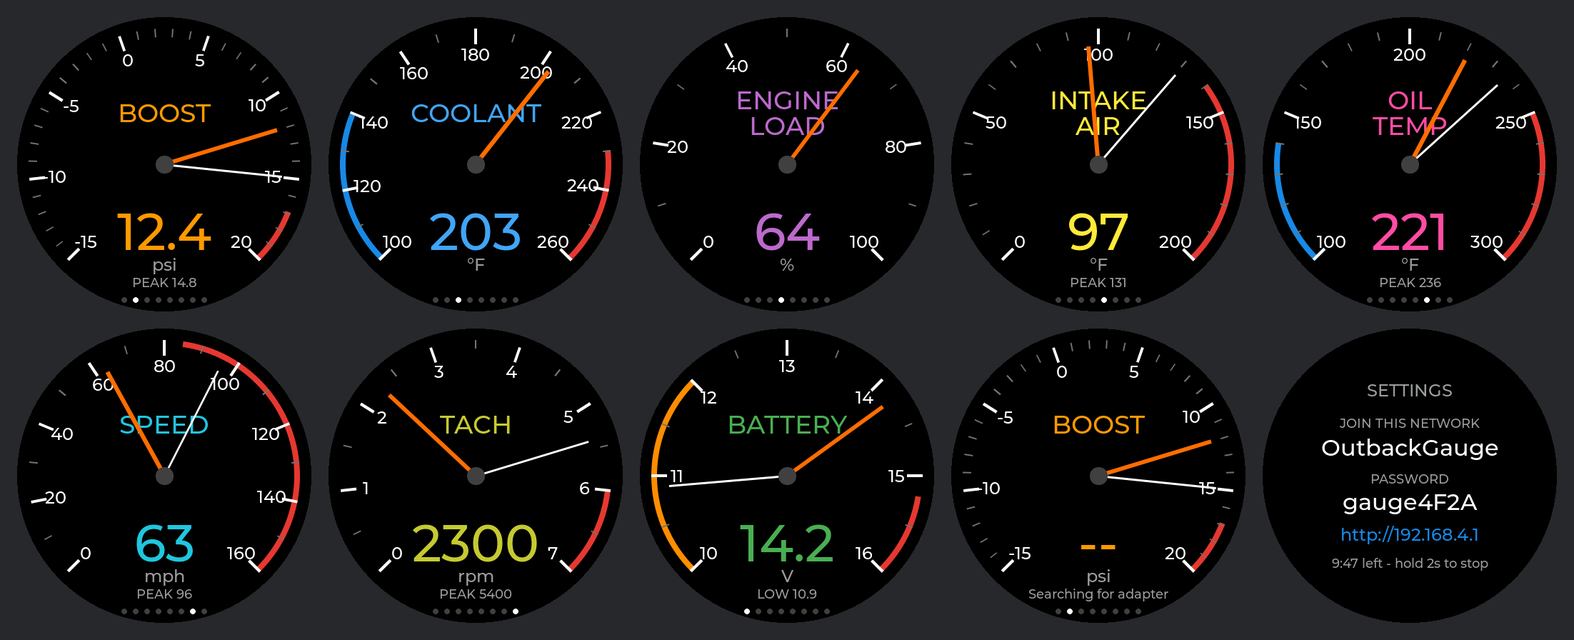
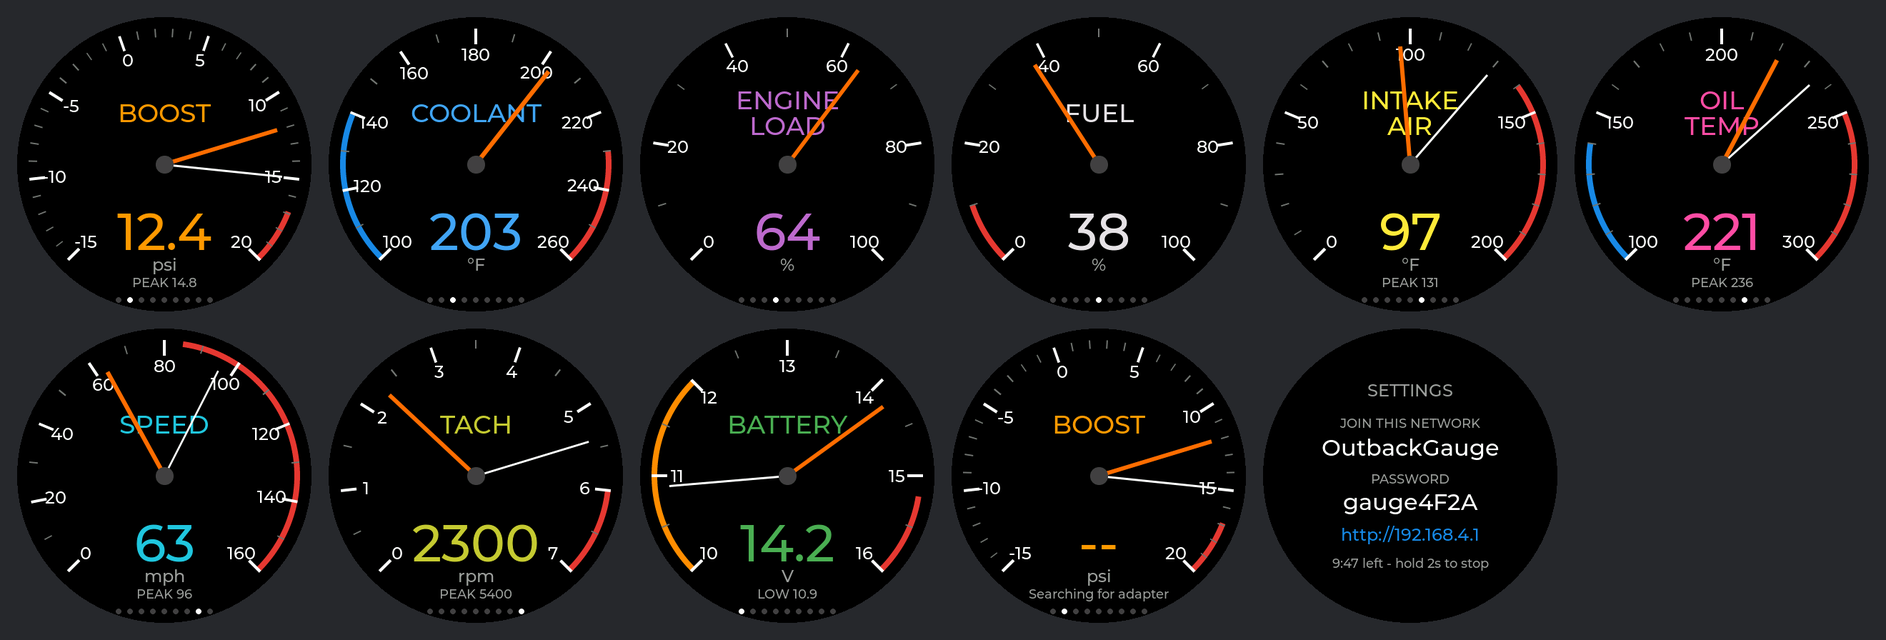
Add a fuel gauge page (PID 0x2F) with a low-fuel warning
Tank level is smoothed against sloshing and warns below a settable level
(10% by default). Page mask widens to 16 bits and the saved settings move
to layout 8; blobs from layouts 4 to 7 are carried over, with fuel shown
and last in their order.

diff --git a/docs/settings-page.html b/docs/settings-page.html
@@ -1,1 +1,1 @@
-<!doctype html><html><head><meta charset=utf-8><meta name=viewport content='width=device-width,initial-scale=1'><title>Outback Gauge</title><style>*{box-sizing:border-box}body{margin:0;padding:18px;background:#111;color:#eee;font:16px/1.4 -apple-system,system-ui,Roboto,sans-serif}main{max-width:30rem;margin:0 auto}h1{font-size:1.25rem;margin:0}p.sub{margin:.2rem 0 1.4rem;color:#888;font-size:.85rem}h2{font-size:.72rem;text-transform:uppercase;letter-spacing:.09em;color:#888;margin:1.6rem 0 .3rem;border-bottom:1px solid #2a2a2a;padding-bottom:.4rem}label{display:flex;align-items:center;gap:.75rem;padding:.5rem 0}label span{flex:1}label em{color:#777;font-style:normal;font-size:.8rem;min-width:2.4rem}input[type=number]{width:5.5rem;padding:.5rem;background:#1c1c1c;border:1px solid #333;border-radius:6px;color:#fff;font-size:1rem;text-align:right}select{padding:.5rem;background:#1c1c1c;border:1px solid #333;border-radius:6px;color:#fff;font-size:1rem}input[type=range]{flex:1;accent-color:#FF6D00}table{width:100%;border-collapse:collapse;margin-top:.3rem}th{font-size:.7rem;font-weight:400;text-transform:uppercase;letter-spacing:.06em;color:#888;text-align:center;padding:.3rem .25rem}th:first-child,td:first-child{text-align:left}td{padding:.45rem .25rem;border-top:1px solid #222;text-align:center;vertical-align:middle}td input[type=number]{width:4.6rem;padding:.4rem}td input[type=radio]{width:1.35rem;height:1.35rem;accent-color:#FF6D00}.lim{display:flex;align-items:center;justify-content:center;gap:.3rem;margin:.15rem 0}.lim em{min-width:1.6rem;text-align:left;white-space:nowrap}td input[type=number]{width:4.2rem}.none{color:#555}td.mv{touch-action:none;cursor:grab;user-select:none;-webkit-user-select:none}.ar{display:inline-flex;gap:.2rem;margin-left:.4rem;vertical-align:middle}button.mb{width:auto;margin:0;padding:.15rem .4rem;font-size:.7rem;background:#1c1c1c;color:#aaa;border:1px solid #333;font-weight:400}tr.drag td{background:#2a2a2a}td input:disabled{opacity:.25}button.ghost.arm{background:#7a2c2c;color:#fff;border-color:#a33}#toast{position:fixed;left:50%;bottom:1.2rem;transform:translateX(-50%);padding:.7rem 1.3rem;border-radius:8px;background:#14301b;border:1px solid #2c5c38;color:#a9e0bb;display:none;z-index:9;box-shadow:0 4px 18px #000a}#toast.bad{background:#3a1616;border-color:#7a2c2c;color:#f2b2b2}input[type=checkbox]{width:1.35rem;height:1.35rem;accent-color:#FF6D00}button{width:100%;padding:.85rem;margin-top:1.2rem;border:0;border-radius:8px;background:#FF6D00;color:#111;font-size:1rem;font-weight:600}button.ghost{background:#1c1c1c;color:#ccc;border:1px solid #333;font-weight:400;margin-top:.5rem}.note{background:#14301b;border:1px solid #2c5c38;color:#a9e0bb;padding:.6rem .8rem;border-radius:6px;margin-bottom:1.2rem;font-size:.9rem}.warn{color:#FB8C00;font-size:.78rem;margin:.5rem 0 0}</style></head><body><main><h1>Outback Gauge</h1><p class=sub>Settings are saved on the gauge and survive a reboot.</p><div class=note>Saved.</div><form method=POST action=/save data-toast="Saved"><h2>Gauges</h2><table><tr><th>Gauge (drag to reorder)<th>Warns at<th>Show<th>Start on</tr><tr data-g><td class=mv><input type=hidden name=o value=5><span class=nm>Battery</span><span class=ar><button type=button class=mb data-d=-1>&#9650;</button><button type=button class=mb data-d=1>&#9660;</button></span><td><span class=lim><input type=number name=vlo min=10 max=14 step=0.1 value=12.0><em>V lo</em></span><span class=lim><input type=number name=vhi min=13 max=16 step=0.1 value=15.2><em>V hi</em></span><td><input type=checkbox name=pg5 checked><td><input type=radio name=start value=5></tr><tr data-g><td class=mv><input type=hidden name=o value=0><span class=nm>Boost</span><span class=ar><button type=button class=mb data-d=-1>&#9650;</button><button type=button class=mb data-d=1>&#9660;</button></span><td><span class=lim><input type=number name=boost min=0 max=20 step=0.5 value=17.0><em>psi</em></span><td><input type=checkbox name=pg0 checked><td><input type=radio name=start value=0></tr><tr data-g><td class=mv><input type=hidden name=o value=2><span class=nm>Coolant</span><span class=ar><button type=button class=mb data-d=-1>&#9650;</button><button type=button class=mb data-d=1>&#9660;</button></span><td><span class=lim><input type=number name=cool min=150 max=260 step=1 value=230><em>&deg;F</em></span><td><input type=checkbox name=pg2 checked><td><input type=radio name=start value=2></tr><tr data-g><td class=mv><input type=hidden name=o value=1><span class=nm>Engine load</span><span class=ar><button type=button class=mb data-d=-1>&#9650;</button><button type=button class=mb data-d=1>&#9660;</button></span><td><span class=none>none</span><td><input type=checkbox name=pg1 checked><td><input type=radio name=start value=1></tr><tr data-g><td class=mv><input type=hidden name=o value=4><span class=nm>Intake air</span><span class=ar><button type=button class=mb data-d=-1>&#9650;</button><button type=button class=mb data-d=1>&#9660;</button></span><td><span class=lim><input type=number name=intake min=60 max=200 step=1 value=140><em>&deg;F</em></span><td><input type=checkbox name=pg4 checked><td><input type=radio name=start value=4></tr><tr data-g><td class=mv><input type=hidden name=o value=3><span class=nm>Oil temperature</span><span class=ar><button type=button class=mb data-d=-1>&#9650;</button><button type=button class=mb data-d=1>&#9660;</button></span><td><span class=lim><input type=number name=oil min=180 max=300 step=1 value=250><em>&deg;F</em></span><td><input type=checkbox name=pg3 checked><td><input type=radio name=start value=3></tr><tr data-g><td class=mv><input type=hidden name=o value=6><span class=nm>Speed</span><span class=ar><button type=button class=mb data-d=-1>&#9650;</button><button type=button class=mb data-d=1>&#9660;</button></span><td><span class=lim><input type=number name=speed min=20 max=160 step=1 value=85><em>mph</em></span><td><input type=checkbox name=pg6 checked><td><input type=radio name=start value=6></tr><tr data-g><td class=mv><input type=hidden name=o value=7><span class=nm>Tachometer</span><span class=ar><button type=button class=mb data-d=-1>&#9650;</button><button type=button class=mb data-d=1>&#9660;</button></span><td><span class=lim><input type=number name=rpm min=3000 max=7000 step=100 value=6000><em>rpm</em></span><td><input type=checkbox name=pg7 checked><td><input type=radio name=start value=7></tr><tr><td colspan=3>The last one I tapped to<td><input type=radio name=start value=255 checked></tr></table><p class=warn>Unticked gauges are never shown, not even for a warning. The start gauge falls back to the first one shown if you hide it.</p><h2>Rotation</h2><label class=chk><input type=checkbox name=auto checked><span>Cycle through the gauges</span></label><label><span>Seconds per gauge</span><input type=number name=secs min=1 max=60 step=0.5 value=3.0><em>s</em></label><p class=warn>Tap the screen to move on early. Hold for 2 seconds to open this page.</p><h2>Display</h2><label><span>Backlight</span><input type=range name=bl min=5 max=100 step=5 value=80 oninput="this.nextElementSibling.textContent=this.value+'%'"><em>80%</em></label><button>Save</button></form><form method=POST action=/defaults data-toast="Defaults restored" data-ask="Tap again to restore defaults" data-confirm="Put every setting back to its default?"><button class=ghost>Restore defaults</button></form><form method=POST action=/reboot data-ask="Tap again to reboot" data-confirm="Reboot the gauge? The Wi-Fi drops, so hold the screen for 2 seconds to bring it back."><button class=ghost>Reboot the gauge</button></form><form method=POST action=/stop data-ask="Tap again to turn Wi-Fi off" data-confirm="Turn Wi-Fi off? Hold the screen to bring it back."><button class=ghost>Turn Wi-Fi off</button></form></main><div id=toast></div><script>function sync(){var rows=document.querySelectorAll('tr[data-g]'),on=0,pick=null;rows.forEach(function(r){var c=r.querySelector('input[type=checkbox]'),d=r.querySelector('input[type=radio]');d.disabled=!c.checked;if(c.checked){on++;if(!pick)pick=d}if(d.disabled&&d.checked){d.checked=false;if(pick)pick.checked=true}});var sel=document.querySelector('input[name=start]:checked');if(!sel){(pick||document.querySelector('input[name=start]:not(:disabled)')).checked=true}}function toast(t,bad){var e=document.getElementById('toast');e.textContent=t;e.className=bad?'bad':'';e.style.display='block';clearTimeout(toast.t);toast.t=setTimeout(function(){e.style.display='none'},3000)}document.addEventListener('change',function(e){if(e.target.type=='checkbox'&&e.target.name&&e.target.name.indexOf('pg')==0){if(!document.querySelector('input[name^=pg]:checked'))e.target.checked=true;sync()}});function disarm(f){var b=f.querySelector('button');if(f.armed){f.armed=0;b.textContent=b.getAttribute('data-t');b.className='ghost';if(f.m)f.m.remove()}}document.addEventListener('submit',function(e){var f=e.target,c=f.getAttribute('data-confirm');if(c){var b=f.querySelector('button');if(!f.armed){e.preventDefault();f.armed=1;b.setAttribute('data-t',b.textContent);b.textContent=f.getAttribute('data-ask');b.className='ghost arm';var m=document.createElement('p');m.className='warn';m.textContent=c;f.appendChild(m);f.m=m;clearTimeout(f.t);f.t=setTimeout(function(){disarm(f)},5000);return}clearTimeout(f.t);if(f.m)f.m.remove()}var t=f.getAttribute('data-toast');if(!t)return;e.preventDefault();fetch(f.action,{method:'POST',body:new URLSearchParams(new FormData(f))}).then(function(r){return r.text()}).then(function(h){var y=scrollY;document.body.innerHTML=new DOMParser().parseFromString(h,'text/html').body.innerHTML;var n=document.querySelector('.note');if(n)n.remove();sync();scrollTo(0,y);toast(t)}).catch(function(){toast('Could not reach the gauge',1)})});function rows(){return Array.prototype.slice.call(document.querySelectorAll('tr[data-g]'))}document.addEventListener('click',function(e){var b=e.target.closest('button.mb');if(!b)return;var r=b.closest('tr'),all=rows(),i=all.indexOf(r),d=+b.getAttribute('data-d'),o=all[i+d];if(!o)return;if(d<0)o.parentNode.insertBefore(r,o);else o.parentNode.insertBefore(o,r)});var dragRow=null;document.addEventListener('pointerdown',function(e){var h=e.target.closest('td.mv');if(!h||e.target.closest('button'))return;dragRow=h.parentNode;dragRow.className='drag';h.setPointerCapture(e.pointerId)});document.addEventListener('pointermove',function(e){if(!dragRow)return;var all=rows(),i=all.indexOf(dragRow),p=all[i-1],n=all[i+1];if(p){var a=p.getBoundingClientRect();if(e.clientY<a.top+a.height/2)p.parentNode.insertBefore(dragRow,p)}if(n){var c=n.getBoundingClientRect();if(e.clientY>c.top+c.height/2)n.parentNode.insertBefore(n,dragRow)}});function drop(){if(dragRow){dragRow.className='';dragRow=null}}document.addEventListener('pointerup',drop);document.addEventListener('pointercancel',drop);sync();</script></body></html>
+<!doctype html><html><head><meta charset=utf-8><meta name=viewport content='width=device-width,initial-scale=1'><title>Outback Gauge</title><style>*{box-sizing:border-box}body{margin:0;padding:18px;background:#111;color:#eee;font:16px/1.4 -apple-system,system-ui,Roboto,sans-serif}main{max-width:30rem;margin:0 auto}h1{font-size:1.25rem;margin:0}p.sub{margin:.2rem 0 1.4rem;color:#888;font-size:.85rem}h2{font-size:.72rem;text-transform:uppercase;letter-spacing:.09em;color:#888;margin:1.6rem 0 .3rem;border-bottom:1px solid #2a2a2a;padding-bottom:.4rem}label{display:flex;align-items:center;gap:.75rem;padding:.5rem 0}label span{flex:1}label em{color:#777;font-style:normal;font-size:.8rem;min-width:2.4rem}input[type=number]{width:5.5rem;padding:.5rem;background:#1c1c1c;border:1px solid #333;border-radius:6px;color:#fff;font-size:1rem;text-align:right}select{padding:.5rem;background:#1c1c1c;border:1px solid #333;border-radius:6px;color:#fff;font-size:1rem}input[type=range]{flex:1;accent-color:#FF6D00}table{width:100%;border-collapse:collapse;margin-top:.3rem}th{font-size:.7rem;font-weight:400;text-transform:uppercase;letter-spacing:.06em;color:#888;text-align:center;padding:.3rem .25rem}th:first-child,td:first-child{text-align:left}td{padding:.45rem .25rem;border-top:1px solid #222;text-align:center;vertical-align:middle}td input[type=number]{width:4.6rem;padding:.4rem}td input[type=radio]{width:1.35rem;height:1.35rem;accent-color:#FF6D00}.lim{display:flex;align-items:center;justify-content:center;gap:.3rem;margin:.15rem 0}.lim em{min-width:1.6rem;text-align:left;white-space:nowrap}td input[type=number]{width:4.2rem}.none{color:#555}td.mv{touch-action:none;cursor:grab;user-select:none;-webkit-user-select:none}.ar{display:inline-flex;gap:.2rem;margin-left:.4rem;vertical-align:middle}button.mb{width:auto;margin:0;padding:.15rem .4rem;font-size:.7rem;background:#1c1c1c;color:#aaa;border:1px solid #333;font-weight:400}tr.drag td{background:#2a2a2a}td input:disabled{opacity:.25}button.ghost.arm{background:#7a2c2c;color:#fff;border-color:#a33}#toast{position:fixed;left:50%;bottom:1.2rem;transform:translateX(-50%);padding:.7rem 1.3rem;border-radius:8px;background:#14301b;border:1px solid #2c5c38;color:#a9e0bb;display:none;z-index:9;box-shadow:0 4px 18px #000a}#toast.bad{background:#3a1616;border-color:#7a2c2c;color:#f2b2b2}input[type=checkbox]{width:1.35rem;height:1.35rem;accent-color:#FF6D00}button{width:100%;padding:.85rem;margin-top:1.2rem;border:0;border-radius:8px;background:#FF6D00;color:#111;font-size:1rem;font-weight:600}button.ghost{background:#1c1c1c;color:#ccc;border:1px solid #333;font-weight:400;margin-top:.5rem}.note{background:#14301b;border:1px solid #2c5c38;color:#a9e0bb;padding:.6rem .8rem;border-radius:6px;margin-bottom:1.2rem;font-size:.9rem}.warn{color:#FB8C00;font-size:.78rem;margin:.5rem 0 0}</style></head><body><main><h1>Outback Gauge</h1><p class=sub>Settings are saved on the gauge and survive a reboot.</p><div class=note>Saved.</div><form method=POST action=/save data-toast="Saved"><h2>Gauges</h2><table><tr><th>Gauge (drag to reorder)<th>Warns at<th>Show<th>Start on</tr><tr data-g><td class=mv><input type=hidden name=o value=5><span class=nm>Battery</span><span class=ar><button type=button class=mb data-d=-1>&#9650;</button><button type=button class=mb data-d=1>&#9660;</button></span><td><span class=lim><input type=number name=vlo min=10 max=14 step=0.1 value=12.0><em>V lo</em></span><span class=lim><input type=number name=vhi min=13 max=16 step=0.1 value=15.2><em>V hi</em></span><td><input type=checkbox name=pg5 checked><td><input type=radio name=start value=5></tr><tr data-g><td class=mv><input type=hidden name=o value=0><span class=nm>Boost</span><span class=ar><button type=button class=mb data-d=-1>&#9650;</button><button type=button class=mb data-d=1>&#9660;</button></span><td><span class=lim><input type=number name=boost min=0 max=20 step=0.5 value=17.0><em>psi</em></span><td><input type=checkbox name=pg0 checked><td><input type=radio name=start value=0></tr><tr data-g><td class=mv><input type=hidden name=o value=2><span class=nm>Coolant</span><span class=ar><button type=button class=mb data-d=-1>&#9650;</button><button type=button class=mb data-d=1>&#9660;</button></span><td><span class=lim><input type=number name=cool min=150 max=260 step=1 value=230><em>&deg;F</em></span><td><input type=checkbox name=pg2 checked><td><input type=radio name=start value=2></tr><tr data-g><td class=mv><input type=hidden name=o value=1><span class=nm>Engine load</span><span class=ar><button type=button class=mb data-d=-1>&#9650;</button><button type=button class=mb data-d=1>&#9660;</button></span><td><span class=none>none</span><td><input type=checkbox name=pg1 checked><td><input type=radio name=start value=1></tr><tr data-g><td class=mv><input type=hidden name=o value=8><span class=nm>Fuel</span><span class=ar><button type=button class=mb data-d=-1>&#9650;</button><button type=button class=mb data-d=1>&#9660;</button></span><td><span class=lim><input type=number name=fuel min=5 max=50 step=1 value=10><em>% low</em></span><td><input type=checkbox name=pg8 checked><td><input type=radio name=start value=8></tr><tr data-g><td class=mv><input type=hidden name=o value=4><span class=nm>Intake air</span><span class=ar><button type=button class=mb data-d=-1>&#9650;</button><button type=button class=mb data-d=1>&#9660;</button></span><td><span class=lim><input type=number name=intake min=60 max=200 step=1 value=140><em>&deg;F</em></span><td><input type=checkbox name=pg4 checked><td><input type=radio name=start value=4></tr><tr data-g><td class=mv><input type=hidden name=o value=3><span class=nm>Oil temperature</span><span class=ar><button type=button class=mb data-d=-1>&#9650;</button><button type=button class=mb data-d=1>&#9660;</button></span><td><span class=lim><input type=number name=oil min=180 max=300 step=1 value=250><em>&deg;F</em></span><td><input type=checkbox name=pg3 checked><td><input type=radio name=start value=3></tr><tr data-g><td class=mv><input type=hidden name=o value=6><span class=nm>Speed</span><span class=ar><button type=button class=mb data-d=-1>&#9650;</button><button type=button class=mb data-d=1>&#9660;</button></span><td><span class=lim><input type=number name=speed min=20 max=160 step=1 value=85><em>mph</em></span><td><input type=checkbox name=pg6 checked><td><input type=radio name=start value=6></tr><tr data-g><td class=mv><input type=hidden name=o value=7><span class=nm>Tachometer</span><span class=ar><button type=button class=mb data-d=-1>&#9650;</button><button type=button class=mb data-d=1>&#9660;</button></span><td><span class=lim><input type=number name=rpm min=3000 max=7000 step=100 value=6000><em>rpm</em></span><td><input type=checkbox name=pg7 checked><td><input type=radio name=start value=7></tr><tr><td colspan=3>The last one I tapped to<td><input type=radio name=start value=255 checked></tr></table><p class=warn>Unticked gauges are never shown, not even for a warning. The start gauge falls back to the first one shown if you hide it.</p><h2>Rotation</h2><label class=chk><input type=checkbox name=auto checked><span>Cycle through the gauges</span></label><label><span>Seconds per gauge</span><input type=number name=secs min=1 max=60 step=0.5 value=3.0><em>s</em></label><p class=warn>Tap the screen to move on early. Hold for 2 seconds to open this page.</p><h2>Display</h2><label><span>Backlight</span><input type=range name=bl min=5 max=100 step=5 value=80 oninput="this.nextElementSibling.textContent=this.value+'%'"><em>80%</em></label><button>Save</button></form><form method=POST action=/defaults data-toast="Defaults restored" data-ask="Tap again to restore defaults" data-confirm="Put every setting back to its default?"><button class=ghost>Restore defaults</button></form><form method=POST action=/reboot data-ask="Tap again to reboot" data-confirm="Reboot the gauge? The Wi-Fi drops, so hold the screen for 2 seconds to bring it back."><button class=ghost>Reboot the gauge</button></form><form method=POST action=/stop data-ask="Tap again to turn Wi-Fi off" data-confirm="Turn Wi-Fi off? Hold the screen to bring it back."><button class=ghost>Turn Wi-Fi off</button></form></main><div id=toast></div><script>function sync(){var rows=document.querySelectorAll('tr[data-g]'),on=0,pick=null;rows.forEach(function(r){var c=r.querySelector('input[type=checkbox]'),d=r.querySelector('input[type=radio]');d.disabled=!c.checked;if(c.checked){on++;if(!pick)pick=d}if(d.disabled&&d.checked){d.checked=false;if(pick)pick.checked=true}});var sel=document.querySelector('input[name=start]:checked');if(!sel){(pick||document.querySelector('input[name=start]:not(:disabled)')).checked=true}}function toast(t,bad){var e=document.getElementById('toast');e.textContent=t;e.className=bad?'bad':'';e.style.display='block';clearTimeout(toast.t);toast.t=setTimeout(function(){e.style.display='none'},3000)}document.addEventListener('change',function(e){if(e.target.type=='checkbox'&&e.target.name&&e.target.name.indexOf('pg')==0){if(!document.querySelector('input[name^=pg]:checked'))e.target.checked=true;sync()}});function disarm(f){var b=f.querySelector('button');if(f.armed){f.armed=0;b.textContent=b.getAttribute('data-t');b.className='ghost';if(f.m)f.m.remove()}}document.addEventListener('submit',function(e){var f=e.target,c=f.getAttribute('data-confirm');if(c){var b=f.querySelector('button');if(!f.armed){e.preventDefault();f.armed=1;b.setAttribute('data-t',b.textContent);b.textContent=f.getAttribute('data-ask');b.className='ghost arm';var m=document.createElement('p');m.className='warn';m.textContent=c;f.appendChild(m);f.m=m;clearTimeout(f.t);f.t=setTimeout(function(){disarm(f)},5000);return}clearTimeout(f.t);if(f.m)f.m.remove()}var t=f.getAttribute('data-toast');if(!t)return;e.preventDefault();fetch(f.action,{method:'POST',body:new URLSearchParams(new FormData(f))}).then(function(r){return r.text()}).then(function(h){var y=scrollY;document.body.innerHTML=new DOMParser().parseFromString(h,'text/html').body.innerHTML;var n=document.querySelector('.note');if(n)n.remove();sync();scrollTo(0,y);toast(t)}).catch(function(){toast('Could not reach the gauge',1)})});function rows(){return Array.prototype.slice.call(document.querySelectorAll('tr[data-g]'))}document.addEventListener('click',function(e){var b=e.target.closest('button.mb');if(!b)return;var r=b.closest('tr'),all=rows(),i=all.indexOf(r),d=+b.getAttribute('data-d'),o=all[i+d];if(!o)return;if(d<0)o.parentNode.insertBefore(r,o);else o.parentNode.insertBefore(o,r)});var dragRow=null;document.addEventListener('pointerdown',function(e){var h=e.target.closest('td.mv');if(!h||e.target.closest('button'))return;dragRow=h.parentNode;dragRow.className='drag';h.setPointerCapture(e.pointerId)});document.addEventListener('pointermove',function(e){if(!dragRow)return;var all=rows(),i=all.indexOf(dragRow),p=all[i-1],n=all[i+1];if(p){var a=p.getBoundingClientRect();if(e.clientY<a.top+a.height/2)p.parentNode.insertBefore(dragRow,p)}if(n){var c=n.getBoundingClientRect();if(e.clientY>c.top+c.height/2)n.parentNode.insertBefore(n,dragRow)}});function drop(){if(dragRow){dragRow.className='';dragRow=null}}document.addEventListener('pointerup',drop);document.addEventListener('pointercancel',drop);sync();</script></body></html>

diff --git a/src/settings.cpp b/src/settings.cpp
@@ -10,15 +10,58 @@ namespace {
 // Stored as one blob rather than a key per field: the whole struct round-trips
 // in two NVS calls, and a version mismatch after a firmware change falls back
 // to defaults instead of leaving half the fields stale. Bump on any layout change.
-constexpr uint16_t LAYOUT = 7;
-constexpr uint16_t LAYOUT_SIX_GAUGES = 4;   // saved before speed and rpm existed
-constexpr uint16_t LAYOUT_NO_LIMITS = 5;    // saved before they had warning limits
-constexpr uint16_t LAYOUT_NO_ORDER = 6;     // saved before the gauges could be rearranged
+constexpr uint16_t LAYOUT = 8;
 
 struct Stored {
   uint16_t layout;
   Settings s;
 };
+
+// Layout 7 as it was before the fuel gauge, kept so settings saved then (or in
+// 4 to 6, which are shorter prefixes of it) carry over instead of resetting.
+struct SettingsV7 {
+  uint8_t backlight;
+  float boostWarnPsi, coolantWarnF, oilWarnF, intakeWarnF, voltsLowWarn, voltsHighWarn;
+  bool autoRotate;
+  float autoRotateSecs;
+  uint8_t pageMask, startPage;
+  float speedWarnMph, rpmWarn;
+  uint8_t order[8];
+};
+
+struct StoredV7 {
+  uint16_t layout;
+  SettingsV7 s;
+};
+
+constexpr uint8_t V7_ORDER[8] = {5, 0, 2, 1, 4, 3, 6, 7};
+
+SettingsV7 v7From(const Settings &d) {
+  SettingsV7 o{};
+  o.backlight = d.backlight;
+  o.boostWarnPsi = d.boostWarnPsi, o.coolantWarnF = d.coolantWarnF, o.oilWarnF = d.oilWarnF;
+  o.intakeWarnF = d.intakeWarnF, o.voltsLowWarn = d.voltsLowWarn, o.voltsHighWarn = d.voltsHighWarn;
+  o.autoRotate = d.autoRotate, o.autoRotateSecs = d.autoRotateSecs;
+  o.pageMask = d.pageMask & 0xFF, o.startPage = d.startPage;
+  o.speedWarnMph = d.speedWarnMph, o.rpmWarn = d.rpmWarn;
+  memcpy(o.order, V7_ORDER, sizeof o.order);
+  return o;
+}
+
+// fuel is shown and goes last; everything else keeps its place.
+Settings fromV7(const SettingsV7 &o, uint16_t layout) {
+  Settings s = settings_defaults();
+  s.backlight = o.backlight;
+  s.boostWarnPsi = o.boostWarnPsi, s.coolantWarnF = o.coolantWarnF, s.oilWarnF = o.oilWarnF;
+  s.intakeWarnF = o.intakeWarnF, s.voltsLowWarn = o.voltsLowWarn, s.voltsHighWarn = o.voltsHighWarn;
+  s.autoRotate = o.autoRotate, s.autoRotateSecs = o.autoRotateSecs;
+  s.pageMask = o.pageMask | 0x100 | (layout == 4 ? 0xC0 : 0);   // layout 4 predates speed and rpm too
+  s.startPage = o.startPage;
+  s.speedWarnMph = o.speedWarnMph, s.rpmWarn = o.rpmWarn;
+  memcpy(s.order, o.order, sizeof o.order);
+  s.order[8] = 8;
+  return s;
+}
 
 portMUX_TYPE mux = portMUX_INITIALIZER_UNLOCKED;
 // Defaults rather than zeros: anything reading settings() before
@@ -42,6 +85,7 @@ void sanitize(Settings &s) {
   s.voltsLowWarn = clampf(s.voltsLowWarn, 10, 14);
   s.voltsHighWarn = clampf(s.voltsHighWarn, 13, 16);
   s.autoRotateSecs = clampf(s.autoRotateSecs, 1, 60);
+  s.fuelWarnPct = clampf(s.fuelWarnPct, 5, 50);
   s.speedWarnMph = clampf(s.speedWarnMph, 20, 160);
   s.rpmWarn = clampf(s.rpmWarn, 3000, 7000);
   bool seen[GAUGE_PAGES] = {};
@@ -80,9 +124,10 @@ Settings settings_defaults() {
   s.startPage = START_PAGE;
   s.speedWarnMph = SPEED_WARN_MPH;
   s.rpmWarn = RPM_WARN;
+  s.fuelWarnPct = FUEL_WARN_PCT;
   // Alphabetical by the gauge's name: battery, boost, coolant, engine load,
-  // intake air, oil temperature, speed, tach (the numbers are the pages in ui.cpp).
-  static const uint8_t alphabetical[GAUGE_PAGES] = {5, 0, 2, 1, 4, 3, 6, 7};
+  // fuel, intake air, oil temperature, speed, tach (the numbers are the pages in ui.cpp).
+  static const uint8_t alphabetical[GAUGE_PAGES] = {5, 0, 2, 1, 8, 4, 3, 6, 7};
   memcpy(s.order, alphabetical, sizeof alphabetical);
   return s;
 }
@@ -96,24 +141,32 @@ void settings_load() {
 
   Preferences prefs;
   prefs.begin("gauge", true);
-  Stored st{LAYOUT, live};   // anything an older blob doesn't carry keeps its default
-  const size_t n = prefs.getBytes("cfg", &st, sizeof st);
+  uint8_t raw[sizeof(Stored) + sizeof(StoredV7)] = {};   // roomy: getBytes refuses a short buffer
+  const size_t n = prefs.getBytes("cfg", raw, sizeof raw);
   prefs.end();
+  uint16_t layout = 0;
+  if (n >= sizeof layout) memcpy(&layout, raw, sizeof layout);
 
-  // Older blobs end where the fields added since begin.
-  const size_t noLimitsBytes = offsetof(Stored, s) + offsetof(Settings, speedWarnMph);
-  const size_t noOrderBytes = offsetof(Stored, s) + offsetof(Settings, order);
-  const bool known = (n == sizeof st && st.layout == LAYOUT) ||
-                     (n == noOrderBytes && st.layout == LAYOUT_NO_ORDER) ||
-                     (n == noLimitsBytes && (st.layout == LAYOUT_NO_LIMITS || st.layout == LAYOUT_SIX_GAUGES));
-  if (known) {
+  if (n == sizeof(Stored) && layout == LAYOUT) {
+    Stored st;
+    memcpy(&st, raw, sizeof st);
     live = st.s;
-    if (st.layout == LAYOUT_SIX_GAUGES) live.pageMask |= 0xC0;   // the new gauges start out shown
     sanitize(live);
     Serial.println("[CFG] loaded saved settings");
+    return;
+  }
+  // Older blobs end where the fields added since begin.
+  StoredV7 old{7, v7From(live)};
+  const size_t noLimitsBytes = offsetof(StoredV7, s) + offsetof(SettingsV7, speedWarnMph);
+  const size_t noOrderBytes = offsetof(StoredV7, s) + offsetof(SettingsV7, order);
+  if ((layout == 7 && n == sizeof old) || (layout == 6 && n == noOrderBytes) ||
+      ((layout == 5 || layout == 4) && n == noLimitsBytes)) {
+    memcpy(&old, raw, n);
+    live = fromV7(old.s, layout);
+    sanitize(live);
+    Serial.printf("[CFG] carried over layout %u settings\n", layout);
   } else if (n) {
-    Serial.printf("[CFG] saved settings are layout %u, wanted %u; using defaults\n",
-                  n >= sizeof st.layout ? st.layout : 0, LAYOUT);
+    Serial.printf("[CFG] saved settings are layout %u, wanted %u; using defaults\n", layout, LAYOUT);
   }
 }
 

diff --git a/src/ui.cpp b/src/ui.cpp
@@ -18,7 +18,7 @@ namespace {
 constexpr lv_coord_t C = LCD_SIZE / 2;  // screen center
 constexpr uint32_t WHITE = 0xFFFFFF, GREY = 0x9E9E9E, RED = 0xE53935, AMBER = 0xFB8C00, BLUE = 0x1E88E5;
 constexpr uint32_t TEXT_GREEN = 0x4CAF50, TEXT_ORANGE = 0xFF9800, TEXT_BLUE = 0x42A5F5, TEXT_PINK = 0xFF4FA3,
-                   TEXT_YELLOW = 0xFFEB3B, TEXT_PURPLE = 0xBA68C8, TEXT_TEAL = 0x26C6DA, TEXT_LIME = 0xC0CA33;
+                   TEXT_YELLOW = 0xFFEB3B, TEXT_PURPLE = 0xBA68C8, TEXT_TEAL = 0x26C6DA, TEXT_LIME = 0xC0CA33, TEXT_SILVER = 0xE0E0E0;
 #define DEG "\xC2\xB0"
 
 // A coloured arc on the scale. One endpoint can be driven by a setting, so the
@@ -47,6 +47,7 @@ const GaugeCfg OIL = {"OIL\nTEMP", DEG "F", "%.0f", 100, 300, 1, 21, 5, {{100, 1
 const GaugeCfg INTAKE = {"INTAKE\nAIR", DEG "F", "%.0f", 0, 200, 1, 21, 5, {{0, 200, RED, &Settings::intakeWarnF}, {}}, Focus::Intake, TEXT_YELLOW, 1};
 const GaugeCfg SPEED = {"SPEED", "mph", "%.0f", 0, 160, 1, 17, 2, {{0, 160, RED, &Settings::speedWarnMph}, {}}, Focus::Speed, TEXT_TEAL, 1};
 const GaugeCfg TACH = {"TACH", "rpm", "%.0f", 0, 7000, 1, 15, 2, {{0, 7000, RED, &Settings::rpmWarn}, {}}, Focus::Rpm, TEXT_LIME, 1};
+const GaugeCfg FUEL = {"FUEL", "%", "%.0f", 0, 100, 1, 11, 2, {{0, 0, RED, &Settings::fuelWarnPct, false}, {}}, Focus::Fuel, TEXT_SILVER, 0};
 const GaugeCfg VOLTS = {"BATTERY", "V", "%.1f", 10, 16, 10, 13, 2, {{10, 0, AMBER, &Settings::voltsLowWarn, false}, {0, 16, RED, &Settings::voltsHighWarn}}, Focus::Volts, TEXT_GREEN, -1};
 
 struct Gauge {
@@ -62,7 +63,7 @@ struct SettingsPage {
   lv_obj_t *screen, *caption, *headline, *caption2, *detail, *url, *foot;
 };
 
-enum : uint8_t { PAGE_BOOST, PAGE_LOAD, PAGE_COOLANT, PAGE_OIL, PAGE_INTAKE, PAGE_VOLTS, PAGE_SPEED, PAGE_TACH, PAGE_COUNT, PAGE_SETTINGS = PAGE_COUNT };
+enum : uint8_t { PAGE_BOOST, PAGE_LOAD, PAGE_COOLANT, PAGE_OIL, PAGE_INTAKE, PAGE_VOLTS, PAGE_SPEED, PAGE_TACH, PAGE_FUEL, PAGE_COUNT, PAGE_SETTINGS = PAGE_COUNT };
 
 Gauge gauges[PAGE_COUNT];
 SettingsPage settingsPage;
@@ -358,6 +359,7 @@ void ui_init() {
   gauges[PAGE_VOLTS] = makeGauge(VOLTS);
   gauges[PAGE_SPEED] = makeGauge(SPEED);
   gauges[PAGE_TACH] = makeGauge(TACH);
+  gauges[PAGE_FUEL] = makeGauge(FUEL);
   loadPeaks();
   makeSettings();
   for (uint8_t i = 0; i < PAGE_COUNT; i++) addPageDots(gauges[i].screen, gauges[i].dots, PAGE_COUNT);
@@ -383,6 +385,7 @@ static bool warning(uint8_t p, const Telemetry &t, const Settings &s) {
     case PAGE_VOLTS: return fresh(t.voltsAt) && (t.volts < s.voltsLowWarn || t.volts > s.voltsHighWarn);
     case PAGE_SPEED: return fresh(t.speedAt) && t.speedMph >= s.speedWarnMph;
     case PAGE_TACH: return fresh(t.rpmAt) && t.rpm >= s.rpmWarn;
+    case PAGE_FUEL: return fresh(t.fuelAt) && t.fuelPct < s.fuelWarnPct;
   }
   return false;  // engine load has no warning
 }
@@ -442,6 +445,7 @@ static bool reading(uint8_t p, const Telemetry &t, float &v) {
     case PAGE_VOLTS: v = t.volts, at = t.voltsAt; break;
     case PAGE_SPEED: v = t.speedMph, at = t.speedAt; break;
     case PAGE_TACH: v = t.rpm, at = t.rpmAt; break;
+    case PAGE_FUEL: v = t.fuelPct, at = t.fuelAt; break;
   }
   return fresh(at);
 }

diff --git a/src/obd.cpp b/src/obd.cpp
@@ -56,7 +56,8 @@ void simulate() {
       s.volts = 14.1f + 0.1f * sinf(t * 1.3f);
       s.rpm = 800.0f + throttle * 4500.0f;
       s.speedMph = throttle * 85.0f;
-      s.boostAt = s.loadAt = s.coolantAt = s.oilAt = s.intakeAt = s.voltsAt = s.rpmAt = s.speedAt = now;
+      s.fuelPct = max(8.0f, 62.0f - t * 0.05f);
+      s.boostAt = s.loadAt = s.coolantAt = s.oilAt = s.intakeAt = s.voltsAt = s.rpmAt = s.speedAt = s.fuelAt = now;
     });
     vTaskDelay(pdMS_TO_TICKS(50));
   }
@@ -294,7 +295,7 @@ bool ecuResponds(uint32_t timeoutMs) {
 
 // ---- polling ---------------------------------------------------------------
 
-enum class Item : uint8_t { Map, Load, Coolant, Oil, Intake, Volts, Rpm, Speed };
+enum class Item : uint8_t { Map, Load, Coolant, Oil, Intake, Volts, Rpm, Speed, Fuel };
 
 float baroKpa = 101.3f;
 
@@ -314,6 +315,7 @@ bool itemSupported(Item item) {
     case Item::Intake: return pidSupported(0x0F) || pidSupported(0x68);
     case Item::Rpm: return pidSupported(0x0C);
     case Item::Speed: return pidSupported(0x0D);
+    case Item::Fuel: return pidSupported(0x2F);
     case Item::Volts: return true;  // the adapter measures this itself
   }
   return true;
@@ -407,6 +409,15 @@ bool poll(Item item) {
       if (!readPid(0x0D, b, 1)) return false;
       edit([&](Telemetry &t) { t.speedMph = b[0] * 0.621371f, t.speedAt = now; });
       return true;
+    case Item::Fuel:
+      if (!readPid(0x2F, b, 1)) return false;
+      // The level sloshes in corners and on hills; ease toward each reading.
+      edit([&](Telemetry &t) {
+        const float v = b[0] * 100.0f / 255.0f;
+        t.fuelPct = t.fuelAt && now - t.fuelAt < 15000 ? t.fuelPct * 0.9f + v * 0.1f : v;
+        t.fuelAt = now;
+      });
+      return true;
     case Item::Volts: {
       String r;
       if (!command("ATRV", r, 600)) return false;
@@ -440,6 +451,7 @@ bool focusItem(Focus f, Item &out) {
     case Focus::Volts: out = Item::Volts; return true;
     case Focus::Speed: out = Item::Speed; return true;
     case Focus::Rpm: out = Item::Rpm; return true;
+    case Focus::Fuel: out = Item::Fuel; return true;
     default: return false;
   }
 }
@@ -456,7 +468,7 @@ void runSession() {
   }
   if (ecu) discoverPids();
 
-  static const Item slowItems[] = {Item::Load, Item::Coolant, Item::Oil, Item::Intake, Item::Volts, Item::Rpm, Item::Speed};
+  static const Item slowItems[] = {Item::Load, Item::Coolant, Item::Oil, Item::Intake, Item::Volts, Item::Rpm, Item::Speed, Item::Fuel};
   size_t slowIdx = 0;
   uint32_t lastSlow = 0, lastBaro = 0;
   int failures = 0;

diff --git a/tools/preview/harness.cpp b/tools/preview/harness.cpp
@@ -31,7 +31,7 @@ static void flush(lv_disp_drv_t *d, const lv_area_t *a, lv_color_t *px) {
 }
 
 static std::vector<uint8_t> sheet;
-static const int COLS = 5, ROWS = 2, GAP = 24, W = COLS * N + (COLS + 1) * GAP, H = ROWS * N + (ROWS + 1) * GAP;
+static const int COLS = 6, ROWS = 2, GAP = 24, W = COLS * N + (COLS + 1) * GAP, H = ROWS * N + (ROWS + 1) * GAP;
 static void capture(int slot) {
   lv_obj_invalidate(lv_scr_act());
   lv_refr_now(nullptr);
@@ -61,22 +61,22 @@ int main() {
   uint32_t s = now_ms - 10;
   t.boostPsi = 14.8f; t.boostAt = s; ui_update(t);   // sets the peak
   t.oilF = 236; t.intakeF = 131; t.volts = 10.9f; t.oilAt = t.intakeAt = t.voltsAt = s;   // the highs and the low
-  t.speedMph = 96; t.rpm = 5400; t.speedAt = t.rpmAt = s;
+  t.speedMph = 96; t.rpm = 5400; t.fuelPct = 38; t.speedAt = t.rpmAt = t.fuelAt = s;
   ui_update(t);
   t.speedMph = 63; t.rpm = 2300;
   t.boostPsi = 12.4f; t.loadPct = 64; t.coolantF = 203; t.oilF = 221; t.intakeF = 97; t.volts = 14.2f;
   t.loadAt = t.coolantAt = t.oilAt = t.intakeAt = t.voltsAt = s;
 
-  for (int page = 0; page < 8; page++) {
+  for (int page = 0; page < 9; page++) {
     ui_update(t); capture(page); ui_nextPage();
   }
   // Boost page again while still searching for the adapter.
   Telemetry idle; idle.state = ObdState::Scanning;
-  ui_update(idle); capture(8);
+  ui_update(idle); capture(9);
 
   // Settings page with the access point up, which is the crowded layout.
   ui_longPress();
-  ui_update(t); capture(9);
+  ui_update(t); capture(10);
 
   FILE *f = fopen("gauges.ppm", "wb");
   fprintf(f, "P6\n%d %d\n255\n", W, H); fwrite(sheet.data(), 1, sheet.size(), f); fclose(f);

diff --git a/src/settings.h b/src/settings.h
@@ -9,7 +9,7 @@
 // Reads happen on the UI task, writes on the web server's task, so the web
 // side stages a whole struct and the UI task swaps it in at a safe point
 // (settings_apply) rather than editing fields underneath a running frame.
-constexpr int GAUGE_PAGES = 8;             // keep in step with the page list in ui.cpp and webpage.cpp
+constexpr int GAUGE_PAGES = 9;             // keep in step with the page list in ui.cpp and webpage.cpp
 
 struct Settings {
   uint8_t backlight;  // percent
@@ -24,12 +24,12 @@ struct Settings {
   bool autoRotate;      // step through the gauges on a timer
   float autoRotateSecs;  // seconds each gauge stays up
 
-  uint8_t pageMask;   // bit per gauge page, in the order of the pages in ui.cpp: set = shown
+  uint16_t pageMask;  // bit per gauge page, in the order of the pages in ui.cpp: set = shown
   uint8_t startPage;  // the page to come up on at power-up, or START_LAST for the last one tapped to
 
-  // Added after the rest, so a blob saved without them still loads (see settings_load).
   float speedWarnMph;
   float rpmWarn;
+  float fuelWarnPct;  // warns below this
   uint8_t order[GAUGE_PAGES];  // the gauges in the order the screen steps through them; a permutation of 0..GAUGE_PAGES-1
 };
 

diff --git a/src/config.h b/src/config.h
@@ -24,10 +24,10 @@ static const char *const OBD_NAME_HINTS[] = {"obdlink", "obd", "vlink", "vgate",
 #define DISPLAY_MOUNT_DEG 90
 
 // Which gauge the screen comes up on at power-up (0 boost, 1 engine load, 2 coolant,
-// 3 oil temperature, 4 intake air, 5 battery, 6 speed, 7 rpm; 255 = the last one you tapped to),
-// and which gauges are shown at all (one bit each, in that order; 0xFF is all eight).
+// 3 oil temperature, 4 intake air, 5 battery, 6 speed, 7 rpm, 8 fuel; 255 = the last one you tapped to),
+// and which gauges are shown at all (one bit each, in that order; 0x1FF is all nine).
 #define START_PAGE 255
-#define PAGE_MASK 0xFF
+#define PAGE_MASK 0x1FF
 
 // Step through the gauges on a timer. A tap still moves on early.
 #define AUTO_ROTATE 1
@@ -42,6 +42,7 @@ static const char *const OBD_NAME_HINTS[] = {"obdlink", "obd", "vlink", "vgate",
 #define VOLTS_HIGH_WARN 15.2f
 #define SPEED_WARN_MPH 85.0f
 #define RPM_WARN 6000.0f
+#define FUEL_WARN_PCT 10.0f
 
 // Settings access point. Compile-time only: it has to be reachable before you
 // can change anything. How long it stays up with no requests before shutting

diff --git a/src/webpage.cpp b/src/webpage.cpp
@@ -42,7 +42,7 @@ void check(String &o, const char *id, const char *label, bool on) {
 }
 
 // In the order of the pages in ui.cpp.
-const char *const PAGE_NAMES[GAUGE_PAGES] = {"Boost", "Engine load", "Coolant", "Oil temperature", "Intake air", "Battery", "Speed", "Tachometer"};
+const char *const PAGE_NAMES[GAUGE_PAGES] = {"Boost", "Engine load", "Coolant", "Oil temperature", "Intake air", "Battery", "Speed", "Tachometer", "Fuel"};
 
 String render(const Settings &s, const char *note) {
   String o;
@@ -123,6 +123,7 @@ String render(const Settings &s, const char *note) {
         break;
       case 6: limit(o, "speed", "min=20 max=160 step=1", s.speedWarnMph, 0, "mph"); break;
       case 7: limit(o, "rpm", "min=3000 max=7000 step=100", s.rpmWarn, 0, "rpm"); break;
+      case 8: limit(o, "fuel", "min=5 max=50 step=1", s.fuelWarnPct, 0, "% low"); break;
       default: o += "<span class=none>none</span>";
     }
     o += "<td><input type=checkbox name=pg";

diff --git a/src/obd.h b/src/obd.h
@@ -12,7 +12,7 @@ enum class ObdState : uint8_t {
 };
 
 // Which reading to poll as fast as possible; the rest are polled in rotation.
-enum class Focus : uint8_t { Boost, Load, Coolant, Oil, Intake, Volts, Speed, Rpm, None };
+enum class Focus : uint8_t { Boost, Load, Coolant, Oil, Intake, Volts, Speed, Rpm, Fuel, None };
 
 // Timestamps are millis() of the last good reading, 0 if never read.
 struct Telemetry {
@@ -26,7 +26,8 @@ struct Telemetry {
   float volts = 0;     // measured by the adapter at the OBD port
   float rpm = 0;
   float speedMph = 0;
-  uint32_t boostAt = 0, loadAt = 0, coolantAt = 0, oilAt = 0, intakeAt = 0, voltsAt = 0, rpmAt = 0, speedAt = 0;
+  float fuelPct = 0;   // tank level, smoothed
+  uint32_t boostAt = 0, loadAt = 0, coolantAt = 0, oilAt = 0, intakeAt = 0, voltsAt = 0, rpmAt = 0, speedAt = 0, fuelAt = 0;
 };
 
 void obd_start();  // runs the BLE/ELM327 client on its own task (core 0)

diff --git a/src/webconfig.cpp b/src/webconfig.cpp
@@ -50,6 +50,7 @@ void handleSave() {
   s.voltsHighWarn = argFloat("vhi", s.voltsHighWarn);
   s.speedWarnMph = argFloat("speed", s.speedWarnMph);
   s.rpmWarn = argFloat("rpm", s.rpmWarn);
+  s.fuelWarnPct = argFloat("fuel", s.fuelWarnPct);
   s.backlight = (uint8_t)argFloat("bl", s.backlight);
   // Unchecked boxes aren't posted at all, so presence is the value.
   s.autoRotate = server.hasArg("auto");

diff --git a/README.md b/README.md
@@ -38,6 +38,7 @@ it does is also a touch gesture.
 | Intake air (°F) | PID 0x0F |
 | Speed (mph) | PID 0x0D, converted from km/h; carries a peak needle |
 | Tachometer (rpm) | PID 0x0C; carries a peak needle |
+| Fuel (%) | PID 0x2F tank level, smoothed; warns below a set level. Not every car reports it, and this one is untested |
 | Battery (V) | `ATRV`, measured by the adapter; works with the engine off |
 
 **Press and hold for two seconds** on any of these opens the Wi-Fi settings page and starts the
